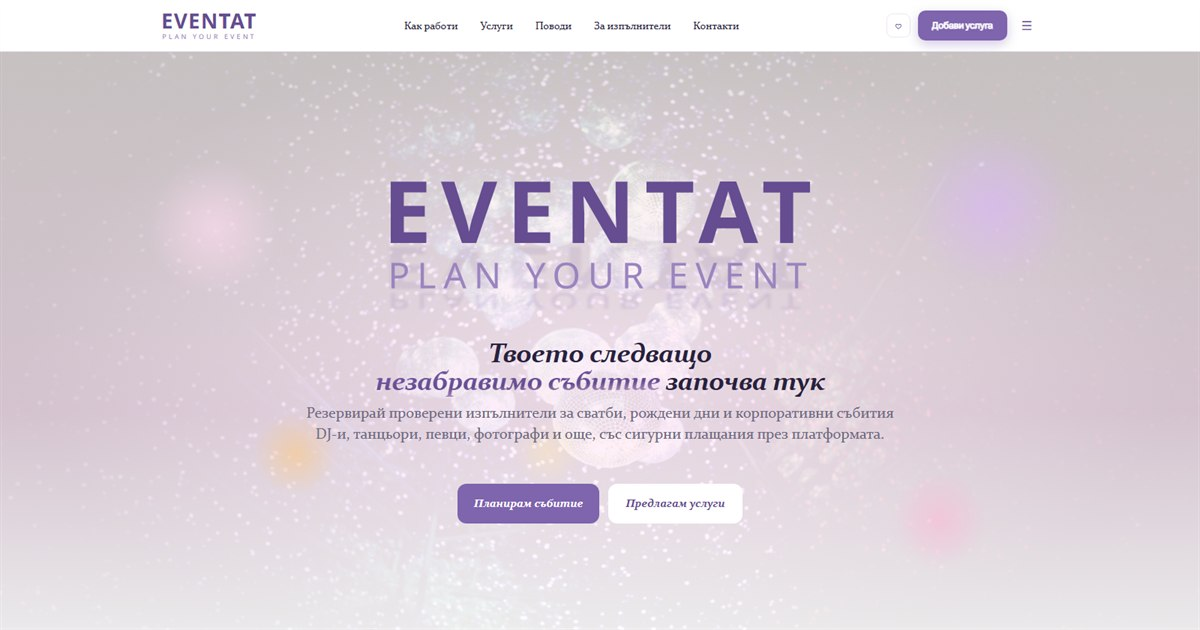
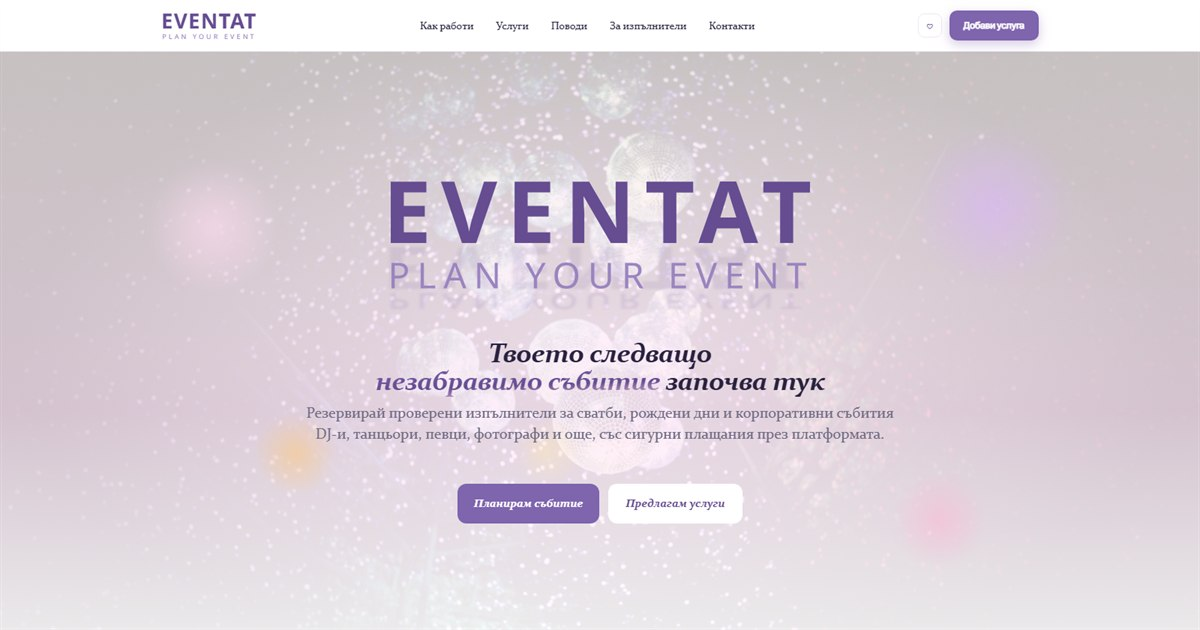
Update website

diff --git a/app/(frontend)/layout.tsx b/app/(frontend)/layout.tsx
@@ -57,17 +57,28 @@ const jakarta = Plus_Jakarta_Sans({
 });
 
 const SITE_URL = process.env.NEXT_PUBLIC_SITE_URL ?? "http://localhost:3000";
+
+/** Заглавие в таба на браузъра и в резултатите на Google. */
 const TITLE = "EventAT — Планирай своето събитие";
 const DESCRIPTION =
   "Резервирай проверени изпълнители за сватби, рождени дни и корпоративни събития със сигурни плащания през платформата.";
+
+/**
+ * Текстове за споделяне. Заглавието повтаря надписа върху самата картинка,
+ * а описанието е кратко (под 120 знака), за да не се отрязва във Facebook,
+ * Messenger, Viber и LinkedIn.
+ */
+const SHARE_TITLE = "Твоето следващо незабравимо събитие започва тук";
+const SHARE_DESCRIPTION =
+  "DJ-и, фотографи, декорация и кетъринг на едно място. Проверени изпълнители и сигурни плащания през EventAT.";
 
 export const metadata: Metadata = {
   metadataBase: new URL(SITE_URL),
   title: TITLE,
   description: DESCRIPTION,
   openGraph: {
-    title: TITLE,
-    description: DESCRIPTION,
+    title: SHARE_TITLE,
+    description: SHARE_DESCRIPTION,
     url: SITE_URL,
     siteName: "EventAT",
     locale: "bg_BG",
@@ -83,8 +94,8 @@ export const metadata: Metadata = {
   },
   twitter: {
     card: "summary_large_image",
-    title: TITLE,
-    description: DESCRIPTION,
+    title: SHARE_TITLE,
+    description: SHARE_DESCRIPTION,
     images: ["/og-image.jpg"],
   },
 };
